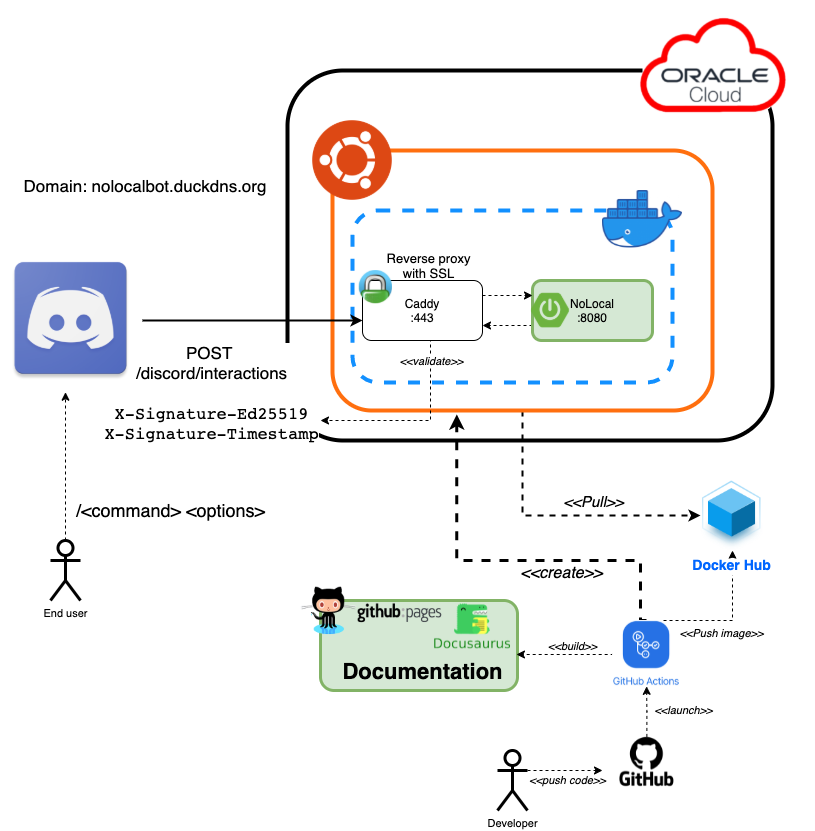
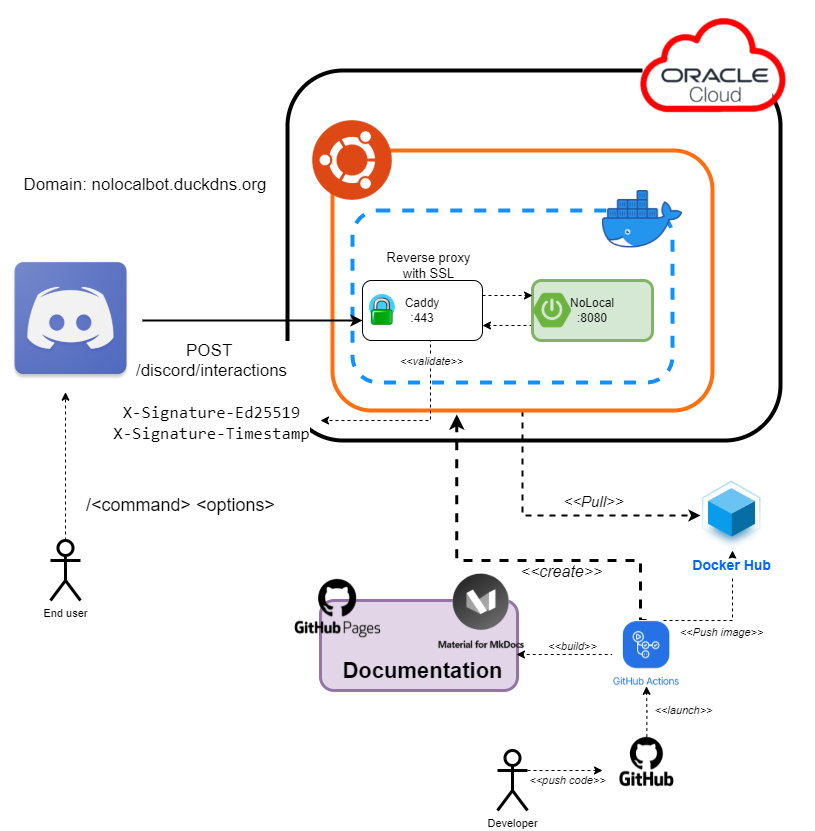
Update docs

diff --git a/docs/Developer Guide/01 - Developer Guide.md b/docs/Developer Guide/01 - Developer Guide.md
@@ -6,7 +6,7 @@ id: developer
 # Quickstart
 
 ## The Big Picture 
-![NoLocal Diagram](/img/developer/diagram.png)
+![NoLocal Diagram](../img/developer/diagram.png)
 
 
 ## Tech stack
